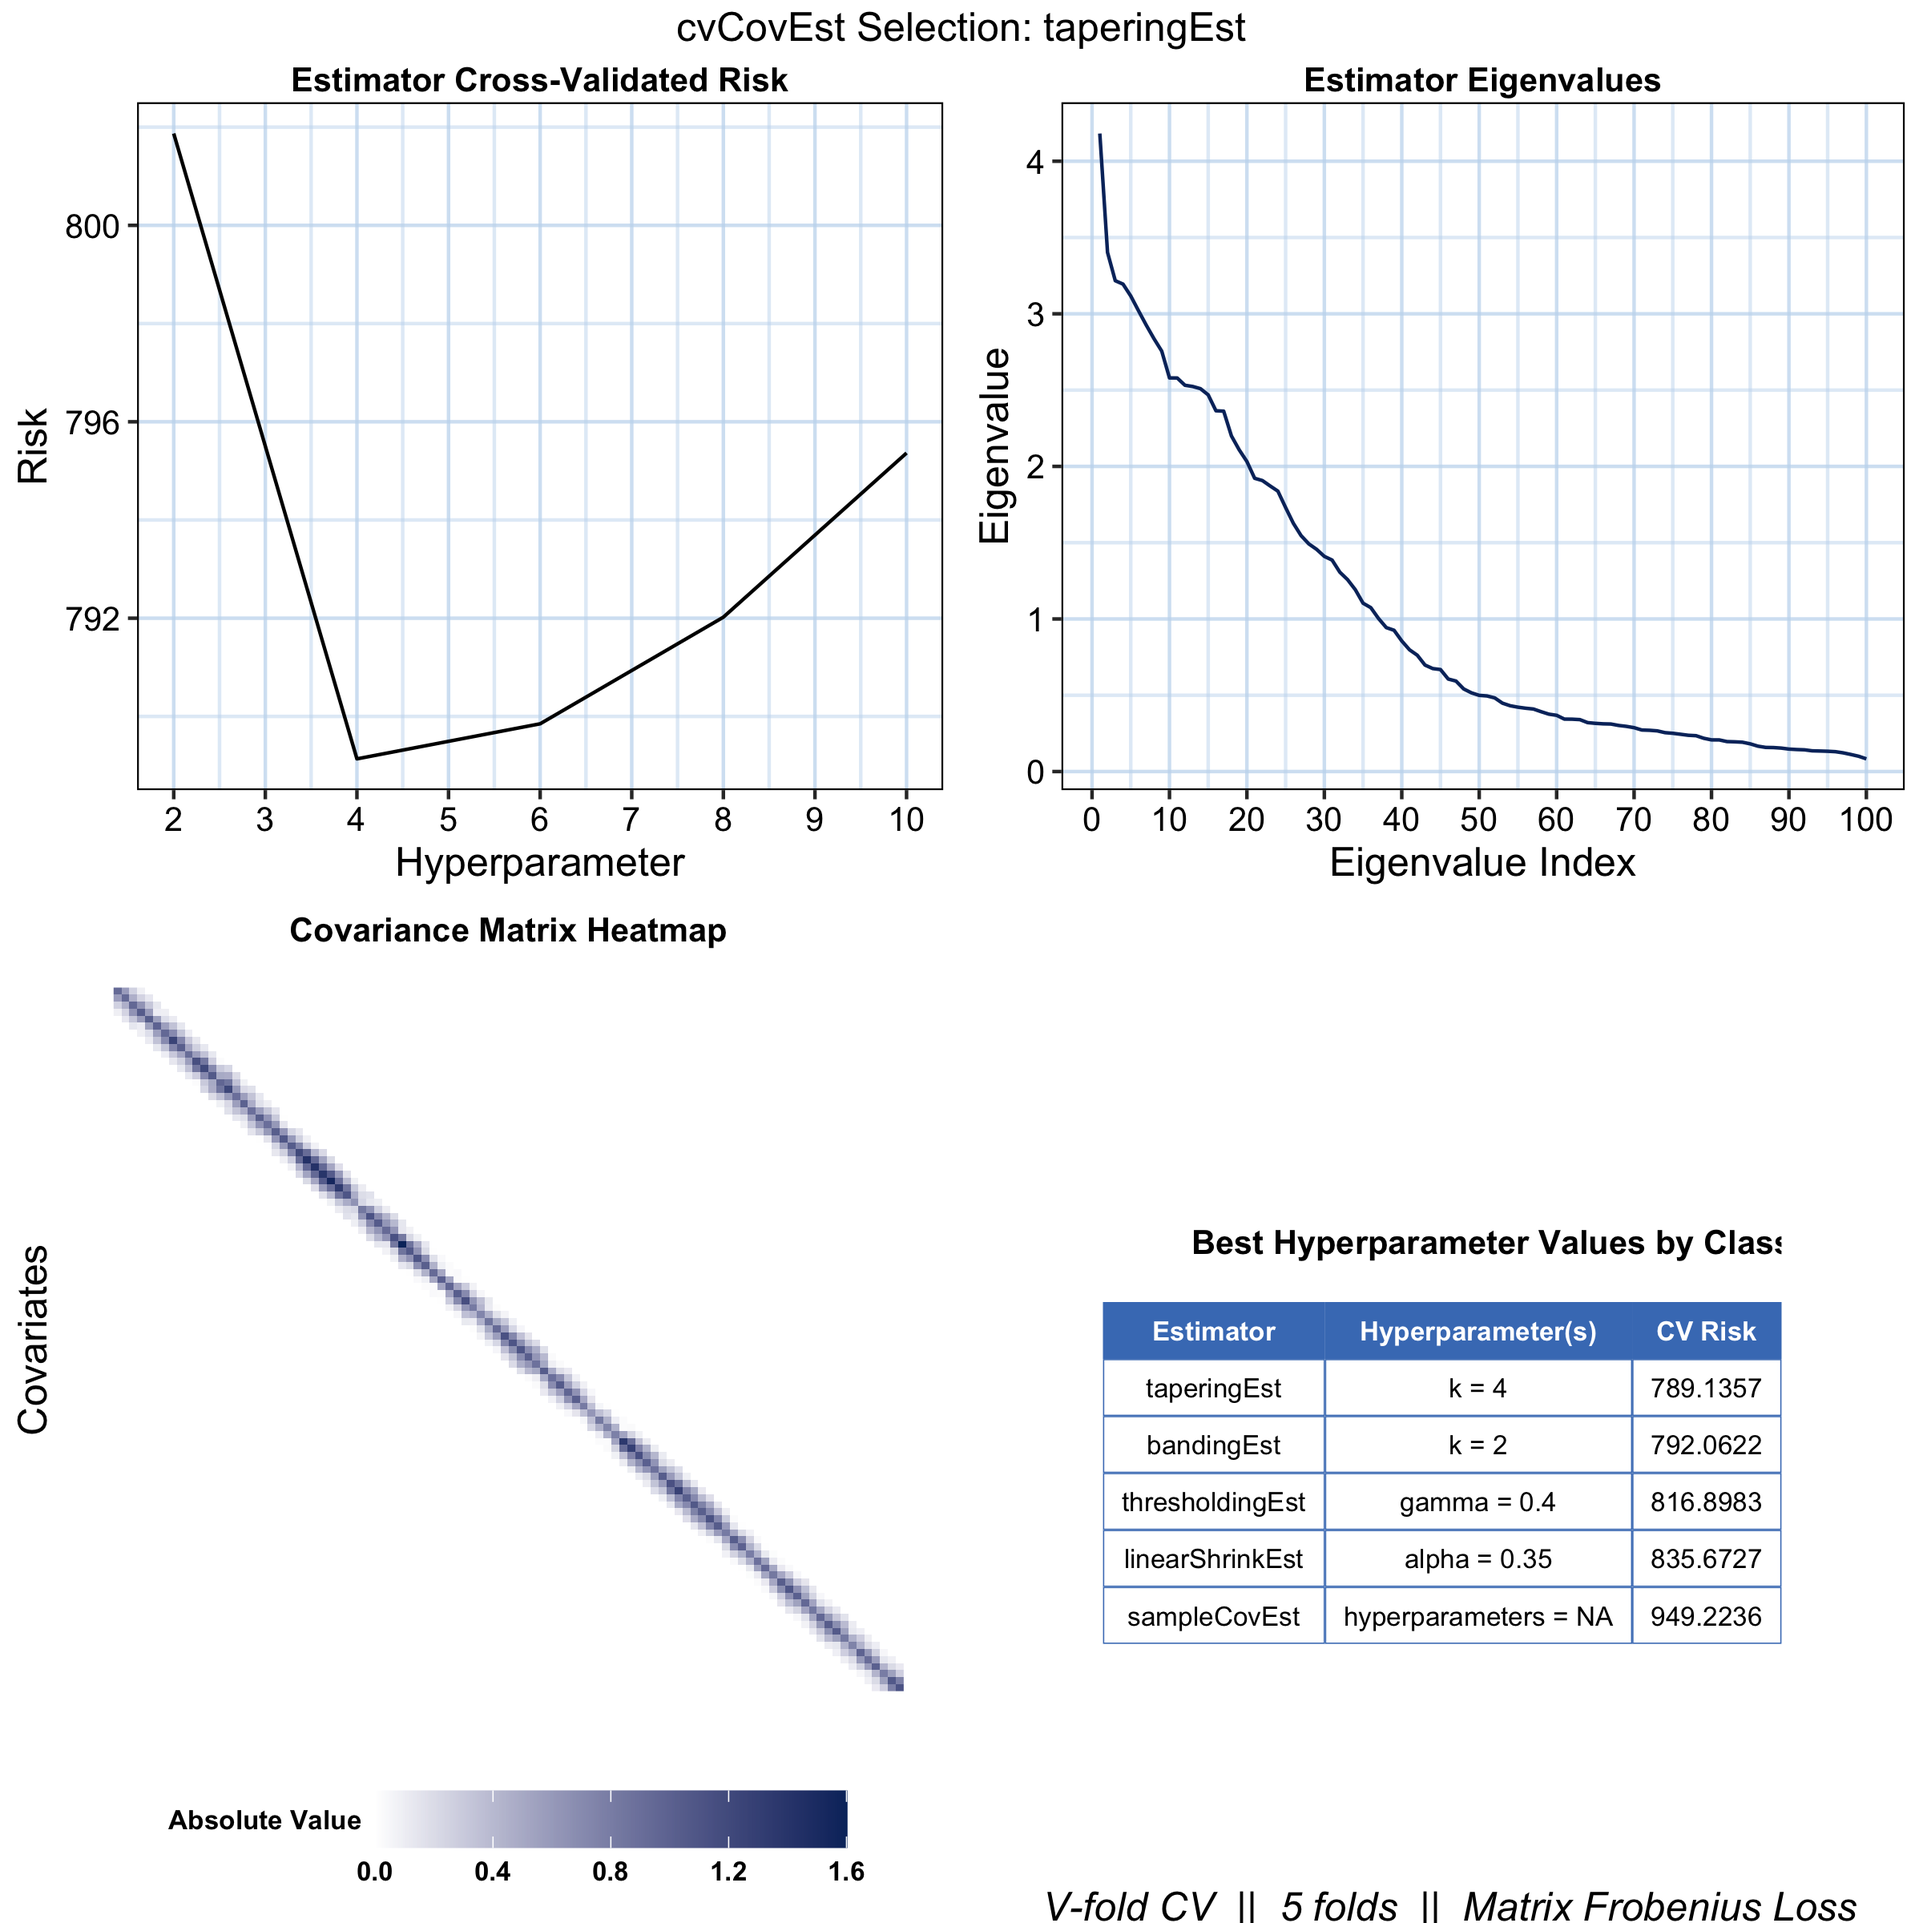
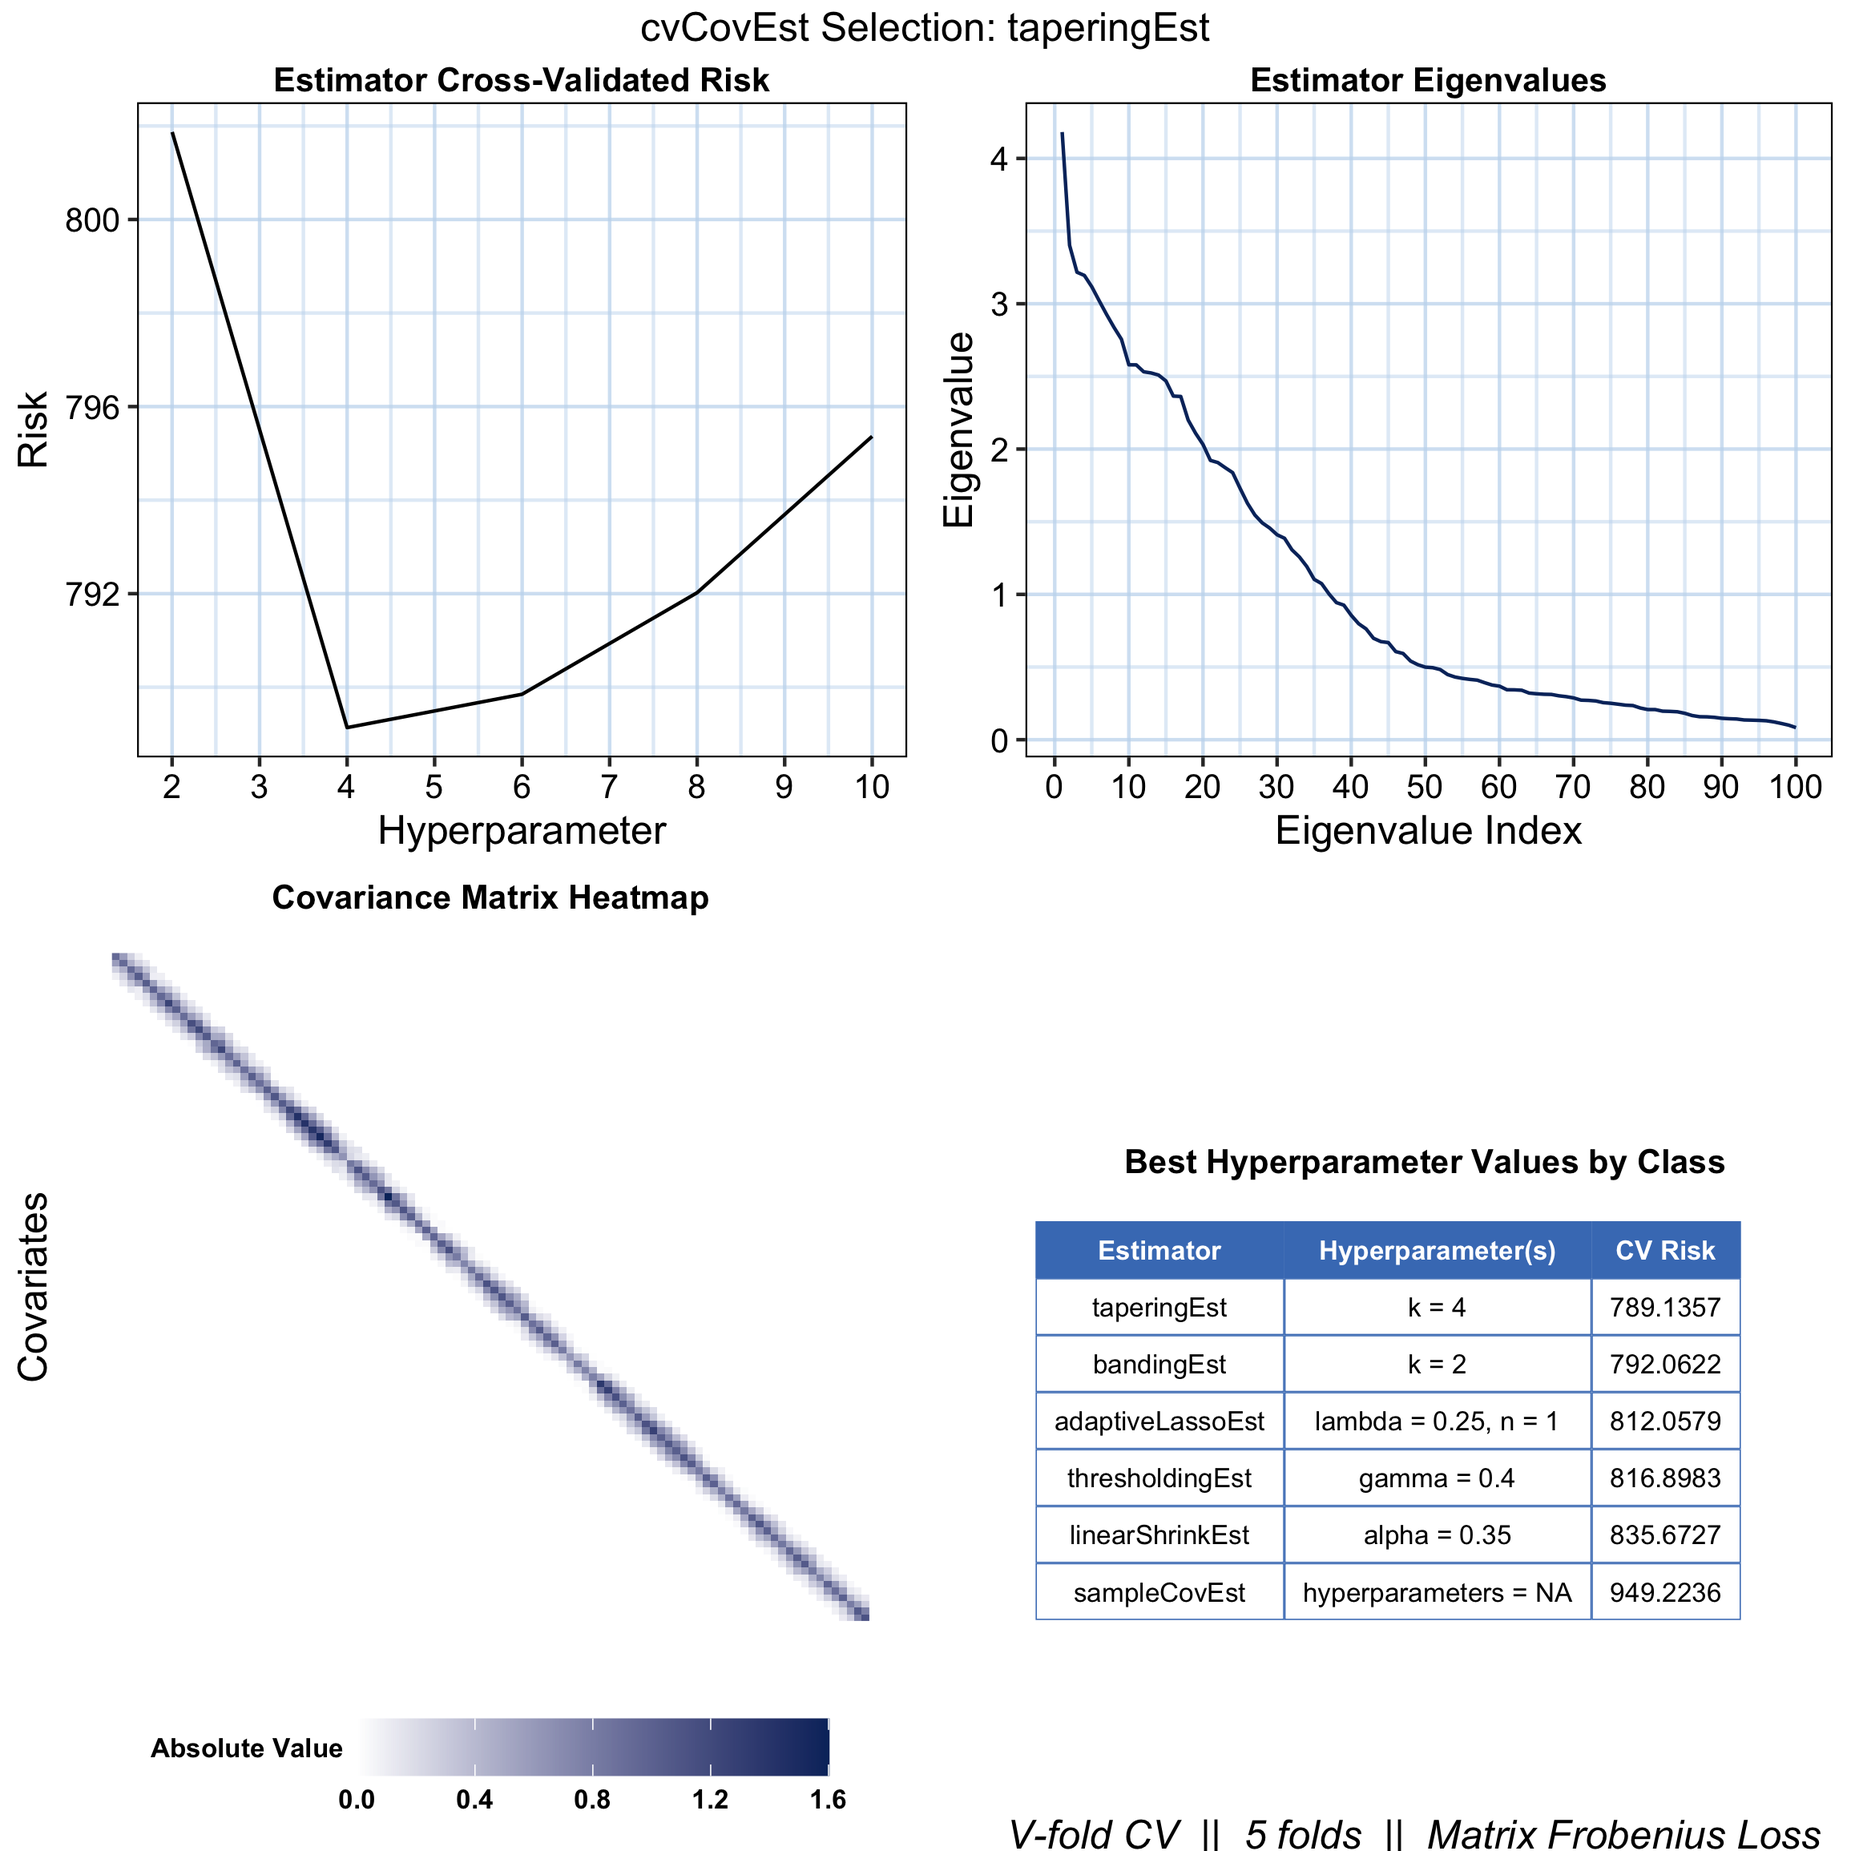
updating summary plot example in paper and vignette

diff --git a/paper/paper.md b/paper/paper.md
@@ -11,12 +11,12 @@ authors:
   - name: Philippe Boileau
     orcid: 0000-0002-4850-2507
     affiliation: "1, 2"
-  - name: Brian Collica
-    orcid: 0000-0003-1127-2557
-    affiliation: 3
   - name: Nima S. Hejazi
     orcid: 0000-0002-7127-2789
     affiliation: "1, 2"
+  - name: Brian Collica
+    orcid: 0000-0003-1127-2557
+    affiliation: 3
   - name: Mark J. van der Laan
     orcid: 0000-0003-1432-5511
     affiliation: "2, 3, 4"
@@ -103,7 +103,8 @@ the cross-validation method's computational efficiency via parallel
 computation. Parallelization relies on the suite of `future` packages
 [@future] by way of the `origami` package [@origami].
 
-Table 1: Covariance matrix estimators implemented as of [version 0.3.4](https://github.com/PhilBoileau/cvCovEst).
+Table 1: Covariance matrix estimators implemented as of [version
+0.3.5](https://github.com/PhilBoileau/cvCovEst).
 
 |Estimator | Implementation | Description |
 |----------|----------|-------------|
@@ -169,12 +170,14 @@ sim_dat <-  MASS::mvrnorm(n = 75, mu = rep(0, 100), Sigma = sim_covmat)
 cv_cov_est_sim <- cvCovEst(
   dat = sim_dat,
   estimators = c(
-    linearShrinkEst, thresholdingEst, bandingEst, taperingEst, sampleCovEst
+    linearShrinkEst, thresholdingEst, bandingEst, adaptiveLassoEst,
+    sampleCovEst, taperingEst
   ),
   estimator_params = list(
-    linearShrinkEst = list(alpha = seq(0.05, 0.25, 0.75)),
-    thresholdingEst = list(gamma = seq(0.05, 0.25, 0.75)),
+    linearShrinkEst = list(alpha = seq(0.25, 0.75, 0.05)),
+    thresholdingEst = list(gamma = seq(0.25, 0.75, 0.05)),
     bandingEst = list(k = seq(2L, 10L, 2L)),
+    adaptiveLassoEst = list(lambda = c(0.1, 0.25, 0.5, 0.75, 1), n = seq(1, 5)),
     taperingEst = list(k = seq(2L, 10L, 2L))
   ),
   cv_scheme = "v_fold",
@@ -202,18 +205,19 @@ identification of rare cell types and the study of developmental trajectories.
 The datasets resulting from these experiments are typically high-dimensional:
 expression data for hundreds or thousands of cells are collected for tens of
 thousands of genes. A critical step in most analytic workflows is therefore
-that of dimension reduction. In addition to facilitating visualization, this reduction is thought to have a denoising
-effect. That is, the effects of uninteresting biological variation are
-typically mitigated in these lower-dimensional embeddings.
+that of dimension reduction. In addition to facilitating visualization, this
+reduction is thought to have a denoising effect. That is, the effects of
+uninteresting biological variation are typically mitigated in these
+lower-dimensional embeddings.
 
-A popular method for the dimensionality reduction of scRNA-seq is 
-uniform manifold approximation and projection (UMAP) [@mcinnes2018], capable of
-capturing non-linear relationships between features, applied to the dataset's leading
-principal components. Since these principal components (PCs) are derived from
-the sample covariance matrix, however, they are likely to be poor estimates of
-the true PCs when the number of genes exceeds the number of cells. Instead, the
-`cvCovEst` estimate could be used to compute the initial dimensionality
-reduction.
+A popular method for the dimensionality reduction of scRNA-seq is uniform
+manifold approximation and projection (UMAP) [@mcinnes2018], capable of
+capturing non-linear relationships between features, applied to the dataset's
+leading principal components. Since these principal components (PCs) are
+derived from the sample covariance matrix, however, they are likely to be poor
+estimates of the true PCs when the number of genes exceeds the number of cells.
+Instead, the `cvCovEst` estimate could be used to compute the initial
+dimensionality reduction.
 
 Indeed, we find that the two-dimensional UMAP embedding resulting from the
 `cvCovEst`-based approach improves upon that of the standard PCA-based approach
@@ -236,9 +240,9 @@ at https://philboileau.github.io/cvCovEst.
 # Acknowledgments
 
 Philippe Boileau's contribution to this work was supported by the Fonds de
-recherche du Québec - Nature et technologies (B1X) and by the National Institute of
-Environmental Health Sciences [P42ES004705] Superfund Research Program at UC
-Berkeley.
+recherche du Québec - Nature et technologies (B1X) and by the National
+Institute of Environmental Health Sciences [P42ES004705] Superfund Research
+Program at UC Berkeley.
 
 We thank Jamarcus Liu for his contributions to the software package.
 
